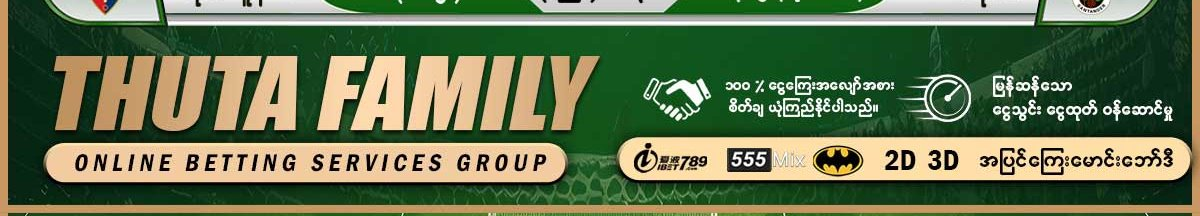
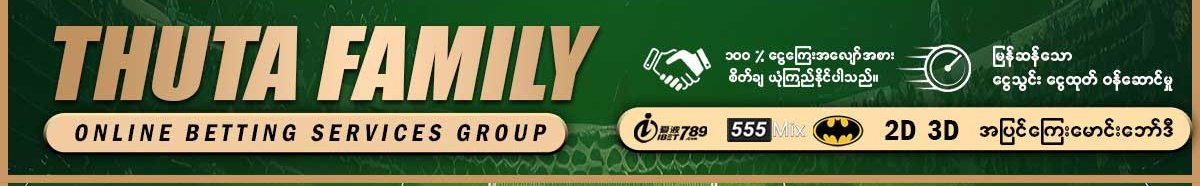
Polish odds studio hidden controls and clean THUTA footer crop

diff --git a/football-daily/brand-odds-studio.js b/football-daily/brand-odds-studio.js
@@ -3,7 +3,7 @@
  if(document.documentElement.dataset.footballBrandName||!/^\/(?:index\.html)?$/.test(location.pathname))return;
  const frames=[['ggoal','GGOAL','#a77b00','#ffe147'],['kmm','KMM','#790407','#ff384b'],['special','Special One','#003550','#22baff'],['thuta','THUTA','#10432d','#d6cf8d'],['kotwat','ကိုတွတ်ပီ','#68080d','#ff554d'],['colour','Colour Background Change','#153c63','#58beff']];
  const section=document.createElement('section');section.id='brandOddsStudio';section.className='section container';section.innerHTML=`<h2>Frame အလိုက် ပေါက်ကြေး PNG</h2><p>ဘော်ဒီကြေးကို ကြေးပေးအသင်းဘေး၊ ဂိုးပေါင်းကြေးကို တစ်ဖက်အသင်းဘေးတွင် ပြသပါမည်။</p><div class="bo-controls"><label>Frame <select id="boFrame"></select></label><label id="boColourWrap" hidden>Colour Theme <select id="boColour"><option value="#b51a24">အနီ</option><option value="#16589d">အပြာ</option><option value="#197447">အစိမ်း</option><option value="#976c09">ရွှေ</option><option value="#6d3597">ခရမ်း</option><option value="custom">စိတ်ကြိုက်</option></select><input type="color" id="boCustom" value="#b51a24" aria-label="စိတ်ကြိုက်အရောင်" hidden></label><label>ကြေးအမျိုးအစား <select id="boMarket"><option value="morning">မူလကြေး</option><option value="current">ယခုကြေး</option></select></label><label>ပုံခွဲရန် <select id="boSplit"><option value="auto">ပွဲများလျှင် ၂ ပုံခွဲမည်</option><option value="two">တစ်ဝက်စီ ၂ ပုံ</option><option value="one">တစ်ပုံတည်း</option></select></label></div><fieldset><legend>ပါဝင်စေချင်သည့်လိဂ်များ ရွေးပါ</legend><div id="boLeagues" class="bo-controls"></div></fieldset><div class="bo-controls"><button id="boPreview" type="button">နမူနာကြည့်မယ်</button><button id="boDownload" type="button">ပေါက်ကြေး PNG Download</button></div><p id="boStatus" role="status" aria-live="polite"></p><div id="boOutput"></div>`;
- const style=document.createElement('style');style.textContent='#brandOddsStudio{padding:28px 20px;border:1px solid #425855;border-radius:16px;margin:30px auto}#brandOddsStudio .bo-controls{display:flex;gap:14px;flex-wrap:wrap;margin:18px 0}#brandOddsStudio select,#brandOddsStudio button{font:inherit;padding:10px;border-radius:8px}#brandOddsStudio button{background:#ffd39b;color:#182426;border:0;cursor:pointer}#brandOddsStudio label{display:flex;gap:8px;align-items:center;flex-wrap:wrap}#brandOddsStudio img{display:block;width:100%;max-width:580px;margin:20px auto}#brandOddsStudio a{display:block;padding:12px}';document.head.append(style);document.querySelector('main').append(section);
+ const style=document.createElement('style');style.textContent='#brandOddsStudio [hidden],#brandPreviewStudio [hidden]{display:none!important}#brandOddsStudio{padding:28px 20px;border:1px solid #425855;border-radius:16px;margin:30px auto}#brandOddsStudio .bo-controls{display:flex;gap:14px;flex-wrap:wrap;margin:18px 0}#brandOddsStudio select,#brandOddsStudio button{font:inherit;padding:10px;border-radius:8px}#brandOddsStudio button{background:#ffd39b;color:#182426;border:0;cursor:pointer}#brandOddsStudio label{display:flex;gap:8px;align-items:center;flex-wrap:wrap}#brandOddsStudio img{display:block;width:100%;max-width:580px;margin:20px auto}#brandOddsStudio a{display:block;padding:12px}';document.head.append(style);document.querySelector('main').append(section);
  const el=id=>section.querySelector('#'+id);let rows=[],date='',busy=false;const urls=[];frames.forEach((f,i)=>el('boFrame').add(new Option(f[1],String(i))));
  const frame=()=>frames[Number(el('boFrame').value)];el('boFrame').onchange=()=>{el('boColourWrap').hidden=frame()[0]!=='colour';};el('boColour').onchange=()=>{el('boCustom').hidden=el('boColour').value!=='custom';};
  const shade=(hex,f)=>'#'+hex.slice(1).match(/../g).map(x=>Math.min(255,Math.round(parseInt(x,16)*f)).toString(16).padStart(2,'0')).join('');

diff --git a/football-daily/index.html b/football-daily/index.html
@@ -25,7 +25,7 @@
 <script defer src="./main-section-tabs.js?v=20261017-section-tabs1"></script>
 <!-- Main Future Code publication: text selection and copy are allowed. -->
 <script defer src="./brand-preview-studio.js?v=20261018-1"></script>
-<script defer src="./brand-odds-studio.js?v=20261018-1"></script>
+<script defer src="./brand-odds-studio.js?v=20261018-2"></script>
 </head>
 <body data-fc-main-view="today">
 <header class="site-header"><div class="container header-inner">
